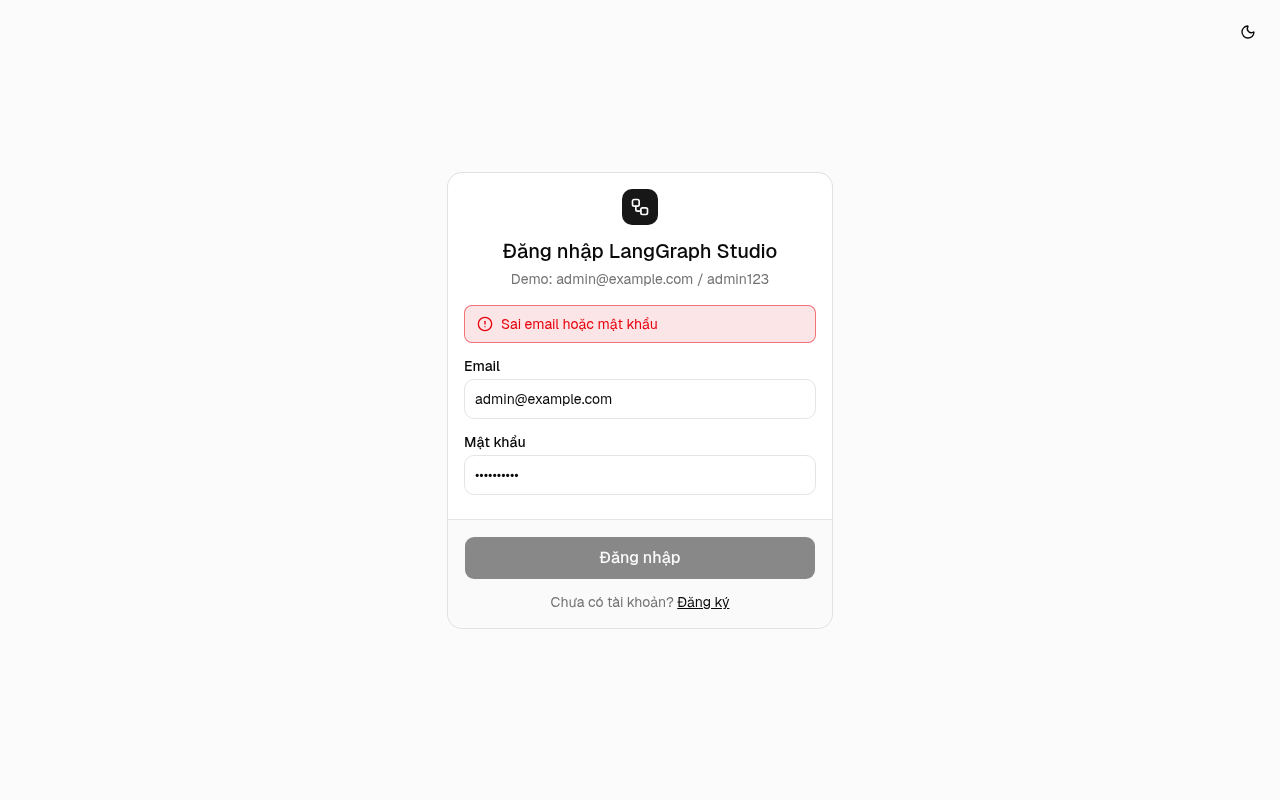
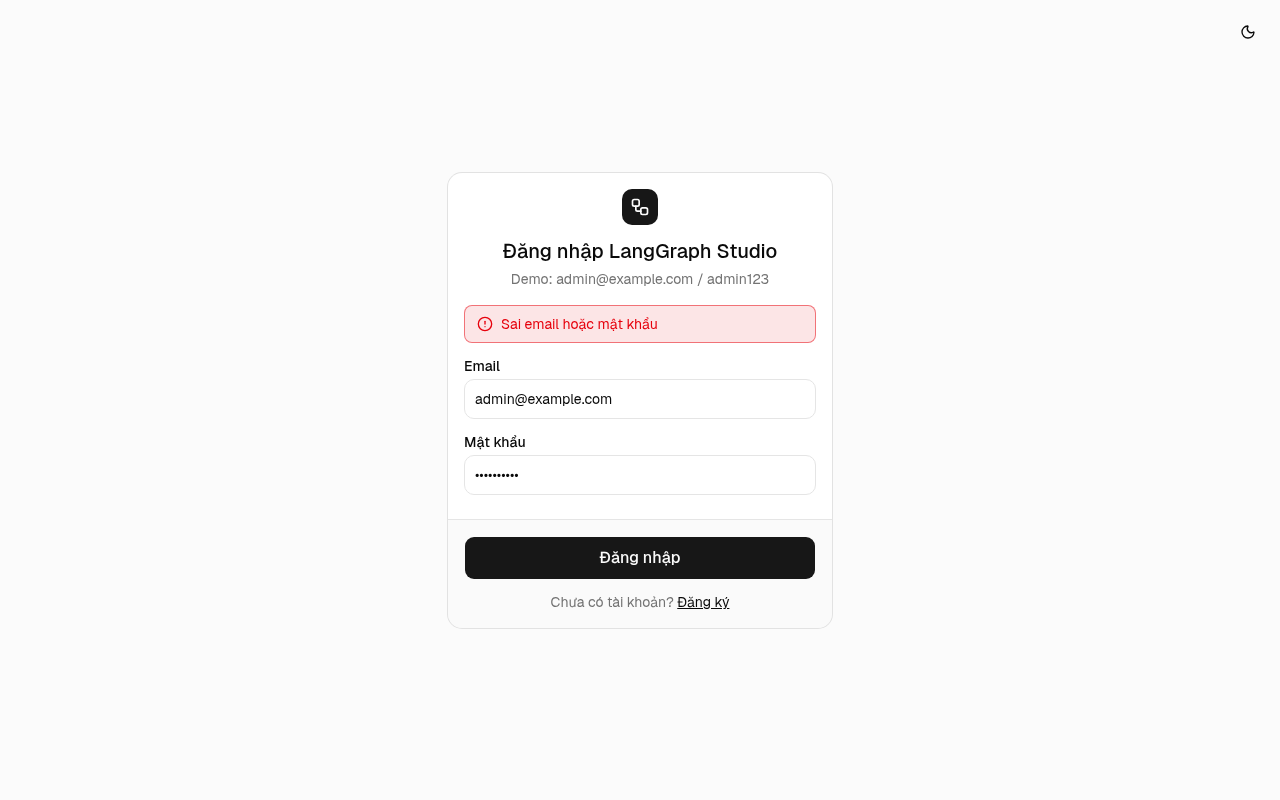
Screenshots: wait for enabled submit before capturing login error

Changed region(s): [[0.3438, 0.6562, 0.6562, 0.75]]

diff --git a/frontend/e2e/screenshots.spec.ts b/frontend/e2e/screenshots.spec.ts
@@ -9,7 +9,8 @@ test('capture auth and list states', async ({ page, request }) => {
   await page.goto('/login?expired=1&next=%2Fworkflows'); await expect(page.locator('#expired-notice')).toBeVisible()
   await page.screenshot({ path: out('auth-expired-notice') })
   await page.getByLabel('Mật khẩu', { exact: true }).fill('wrongpass1'); await page.locator('#auth-submit').click()
-  await expect(page.locator('#auth-error')).toBeVisible(); await page.screenshot({ path: out('auth-login-error') })
+  await expect(page.locator('#auth-error')).toBeVisible(); await expect(page.locator('#auth-submit')).toBeEnabled(); await page.mouse.move(0, 0); await page.waitForTimeout(400)
+  await page.screenshot({ path: out('auth-login-error') })
   await page.goto('/register'); await page.getByLabel('Email').fill(email)
   await page.getByLabel('Mật khẩu', { exact: true }).fill('abcdefg'); await page.getByLabel('Xác nhận mật khẩu').fill('abcdefx')
   await page.screenshot({ path: out('auth-register-password-rules') })
